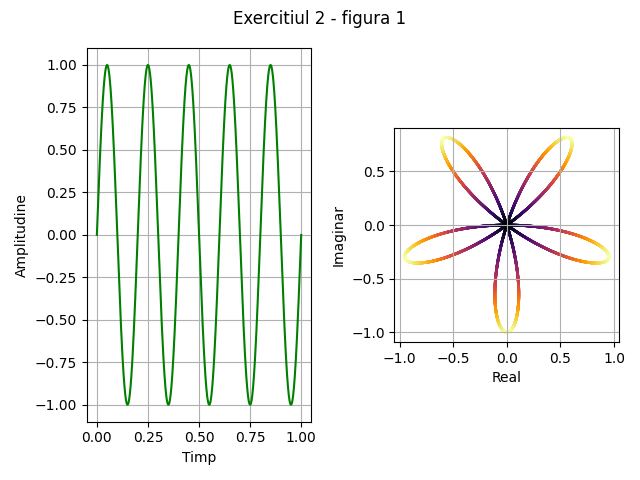
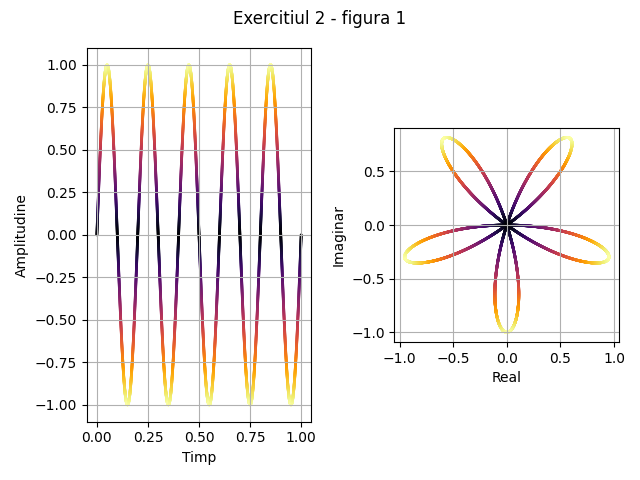
update tema 3

Changed region(s): [[0.125, 0.125, 0.5, 0.8438]]

diff --git a/Laborator3/main.py b/Laborator3/main.py
@@ -55,7 +55,7 @@ def ex2():
 
     fig, axs = plt.subplots(1, 2)
     fig.suptitle('Exercitiul 2 - figura 1')
-    axs[0].plot(time, x, color='green')
+    axs[0].scatter(time, x, c=np.abs(x), s=1, cmap=cmap)
     axs[0].set_xlabel('Timp')
     axs[0].set_ylabel('Amplitudine')
     axs[0].grid()
